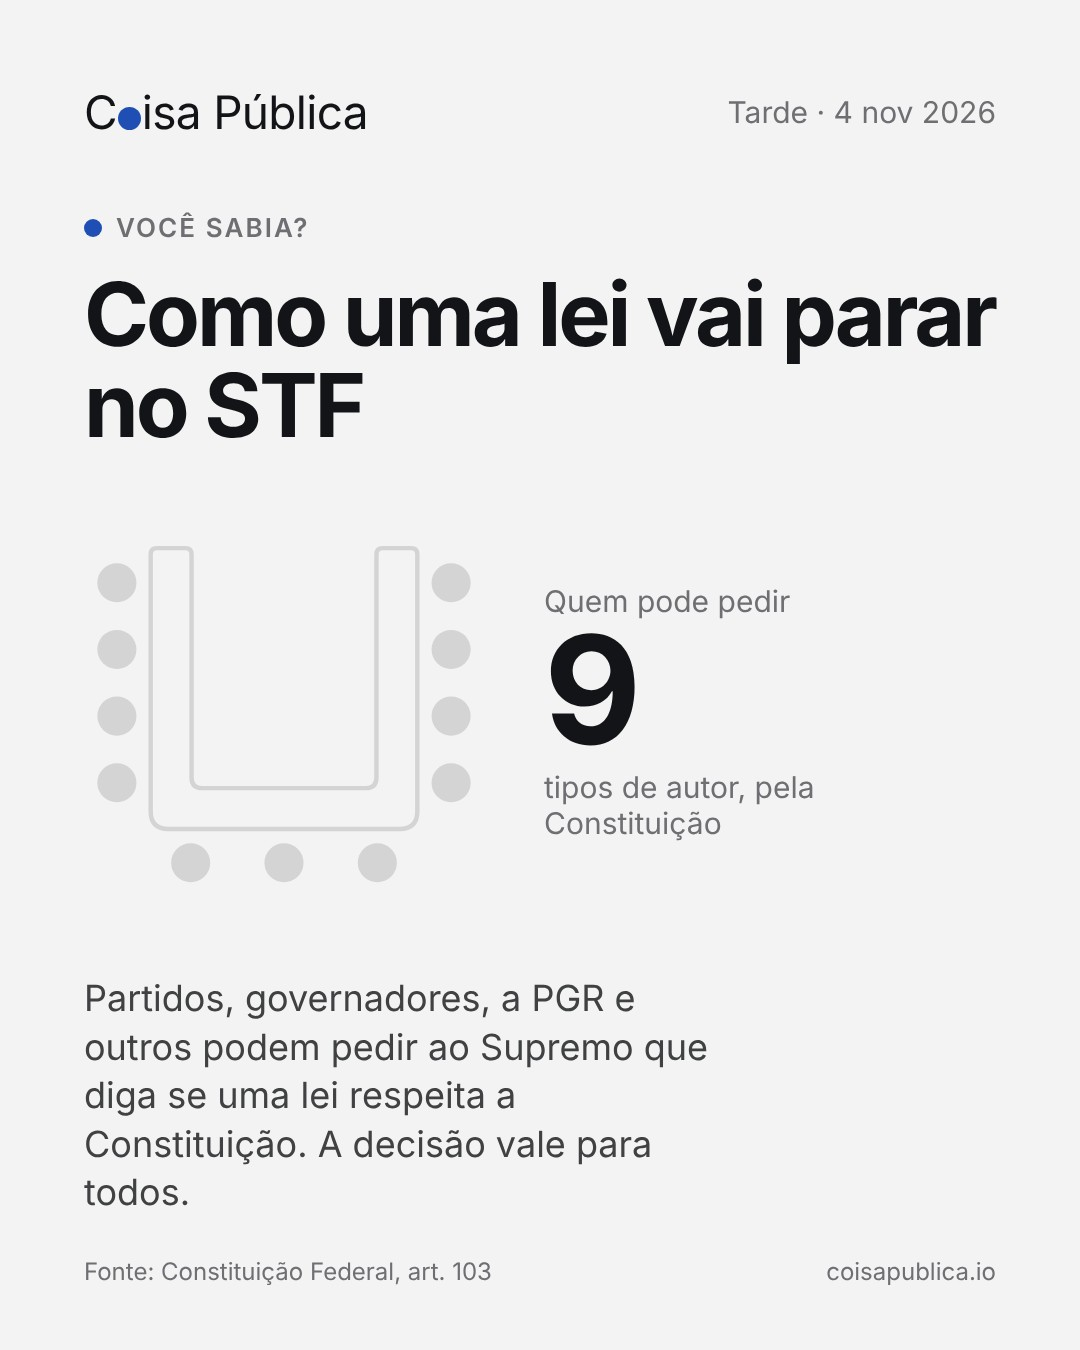
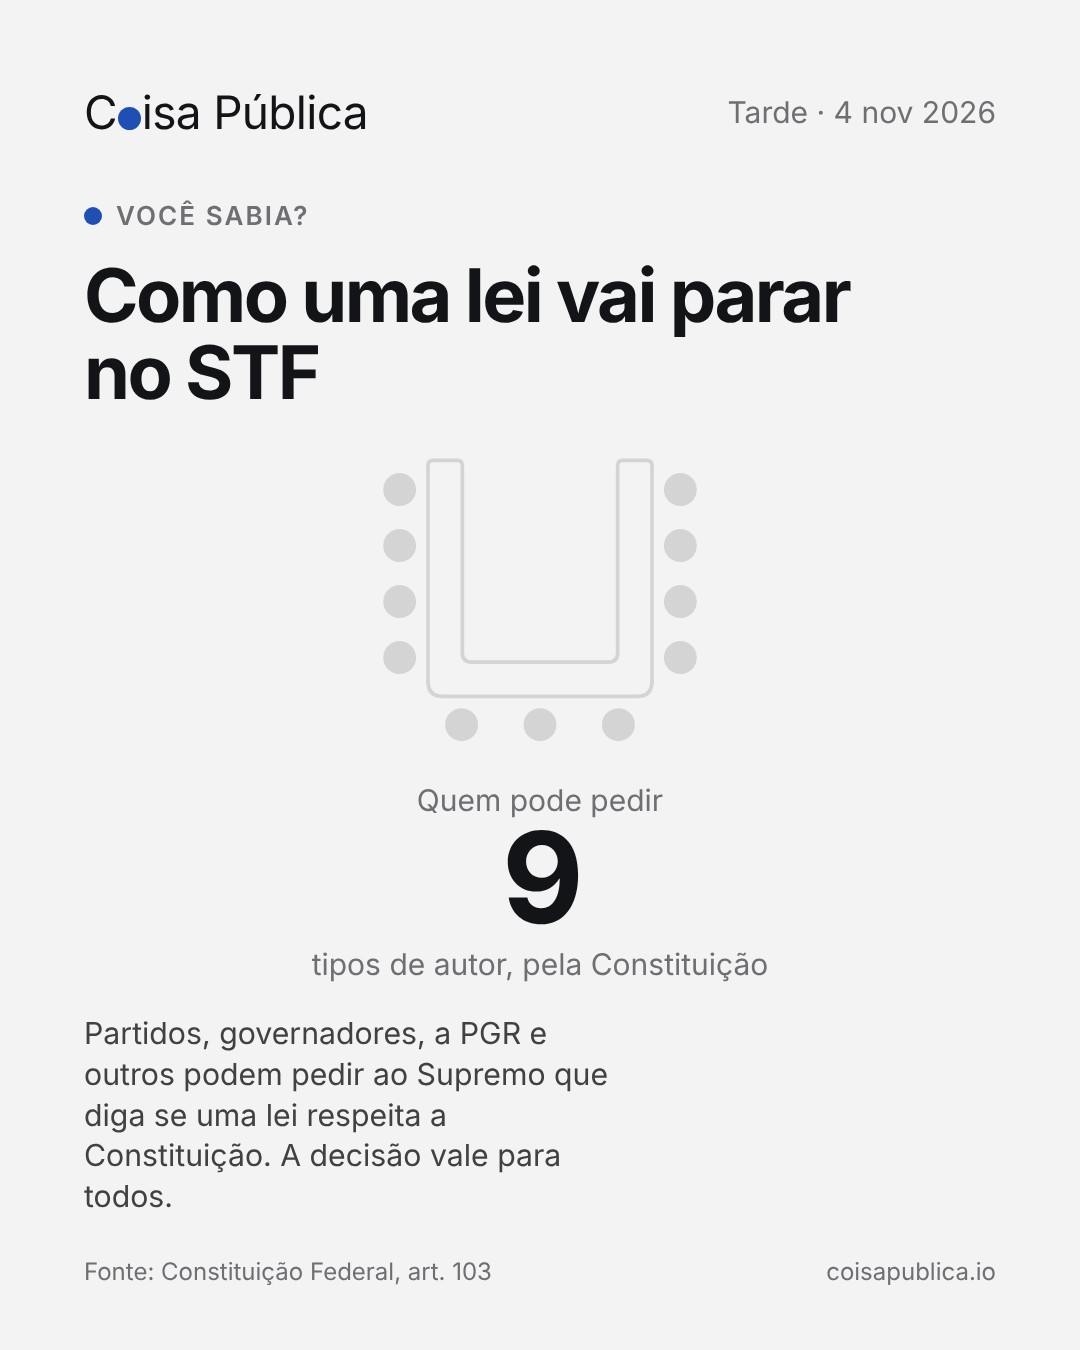
Posts: visual de data com desenho, número e texto centralizados; entrega diária às 20h
Claude-Session: https://claude.ai/code/session_01LhzKyHvExJb3TPhqkvRYrY

diff --git a/scripts/posts/modelo.html b/scripts/posts/modelo.html
@@ -36,7 +36,7 @@ body.cheio.p-exe{--pc:#009C3B;--pci:#F3F3F3}
 .nums{display:flex;justify-content:center;gap:64px;margin-top:-26px;text-align:center}
 .nums b{display:block;font-size:calc(124px * var(--k));font-weight:700;letter-spacing:-.04em;line-height:1}
 .nums span{font-size:26px;color:var(--muted)}
-.dat{display:grid;grid-template-columns:auto auto;gap:60px;align-items:center;justify-content:center}
+.dat{display:grid;grid-template-columns:auto;gap:28px;justify-items:center;justify-content:center;text-align:center}
 .dat .circ{width:calc(380px * var(--k));height:calc(380px * var(--k));border-radius:50%;background:var(--pc);color:#F3F3F3;display:grid;place-items:center}
 .dat .mesa{width:calc(400px * var(--k))}
 .dat .circ svg{width:55%}

diff --git a/posts/LEIA.md b/posts/LEIA.md
@@ -14,6 +14,8 @@ Três posts por dia, cada um com imagem e texto, sempre aprovados pelo Lucca ant
 
 Segredos do GitHub (Settings > Secrets and variables > Actions): `BLUESKY_HANDLE`, `BLUESKY_APP_PASSWORD`, `IG_USER_ID`, `IG_TOKEN`. Rede sem segredo é pulada e o post espera.
 
+> Desde 3/11/2026 a publicação automática está pausada: todo dia às 20h os três posts do dia seguinte são preparados e entregues ao Lucca no chat (imagem, legenda e texto alternativo), e ele publica à mão.
+
 ## Calendário dos posts
 
 Horário de Brasília. A tarefa agendada roda todo dia às 6h37, 11h37 e 17h37 e decide pelo calendário abaixo o que fazer; se o horário não tem post, ela para sem fazer nada.
@@ -61,7 +63,7 @@ Horário de Brasília. A tarefa agendada roda todo dia às 6h37, 11h37 e 17h37 e
 
 - `imagem.poder`: `leg`, `jud` ou `exe` (cor da bolinha do logo). Em `tags`, `poder` pinta a etiqueta com a cor do poder e `cat` usa a cor do tipo (`mp`, `pec`, `plp`, `pl`, `pdl`, `acao`, `re`).
 - Um assunto só: `tags`, `texto` e, se houver, `placar` (`desenho`: `stf`, `camara`, `senado` ou sem desenho). Lista de assuntos: `itens` (até 3), cada um com `quando`, `dia`, `tags`, `titulo` e `texto` opcional; o `texto` de fora vira uma linha embaixo do título.
-- Post de um assunto só com `imagem.poder` sai no layout de assunto único: fundo #F3F3F3, o tema em texto pequeno com uma bolinha na cor do poder, sem caixa e sem etiquetas (elas ficam na legenda), e um desenho grande no meio: `visual` `{"tipo":"plenario","casa":"camara"|"senado","destaque":308,"numeros":[{"n":"308","l":"dos 513 deputados"}]}` (semicírculo com as cadeiras destacadas) ou `{"tipo":"percentual","valor":60,"rotulo":"três quintos","numeros":[...]}` (o semicírculo do plenário numa faixa única, preenchida até a porcentagem) ou `{"tipo":"data","rotulo":"Julgamento","valor":"4/11","sub":"quarta-feira, no plenário"}` (o símbolo do poder num círculo, ou a mesa do STF com as 11 cadeiras no Judiciário, e uma data ou número grande); sem `visual`, entra o `placar`. Texto curto (uma ou duas frases); o resto vai na legenda. Posts com lista (`itens`), como a ordem do dia e os resumos, seguem com a caixa cinza. Para usar o layout antigo, com caixa, num post de um assunto só: `"fundo":"claro"`.
+- Post de um assunto só com `imagem.poder` sai no layout de assunto único: fundo #F3F3F3, o tema em texto pequeno com uma bolinha na cor do poder, sem caixa e sem etiquetas (elas ficam na legenda), e um desenho grande no meio: `visual` `{"tipo":"plenario","casa":"camara"|"senado","destaque":308,"numeros":[{"n":"308","l":"dos 513 deputados"}]}` (semicírculo com as cadeiras destacadas) ou `{"tipo":"percentual","valor":60,"rotulo":"três quintos","numeros":[...]}` (o semicírculo do plenário numa faixa única, preenchida até a porcentagem) ou `{"tipo":"data","rotulo":"Julgamento","valor":"4/11","sub":"quarta-feira, no plenário"}` (o símbolo do poder num círculo, ou a mesa do STF com as 11 cadeiras no Judiciário, e embaixo dele, tudo centralizado, o rótulo, a data ou o número grande e a linha de baixo); sem `visual`, entra o `placar`. Texto curto (uma ou duas frases); o resto vai na legenda. Posts com lista (`itens`), como a ordem do dia e os resumos, seguem com a caixa cinza. Para usar o layout antigo, com caixa, num post de um assunto só: `"fundo":"claro"`.
 - **Pergunta em destaque** (bom para "Em tramitação"): `"pergunta":"Os municípios podem criar as próprias loterias?"` e `"rodape":{"rotulo":"O STF decide em","valor":"4 de novembro"}`. A pergunta vira o título grande, o `titulo` vai para a linha do tema, e embaixo, depois de um fio, entram o símbolo do poder (a mesa do STF no Judiciário) e a data.
 - Títulos curtos (até ~40 caracteres). Se `render.js` avisar que não coube, encurtar.
 - Exemplos completos em `posts/exemplos/`.
